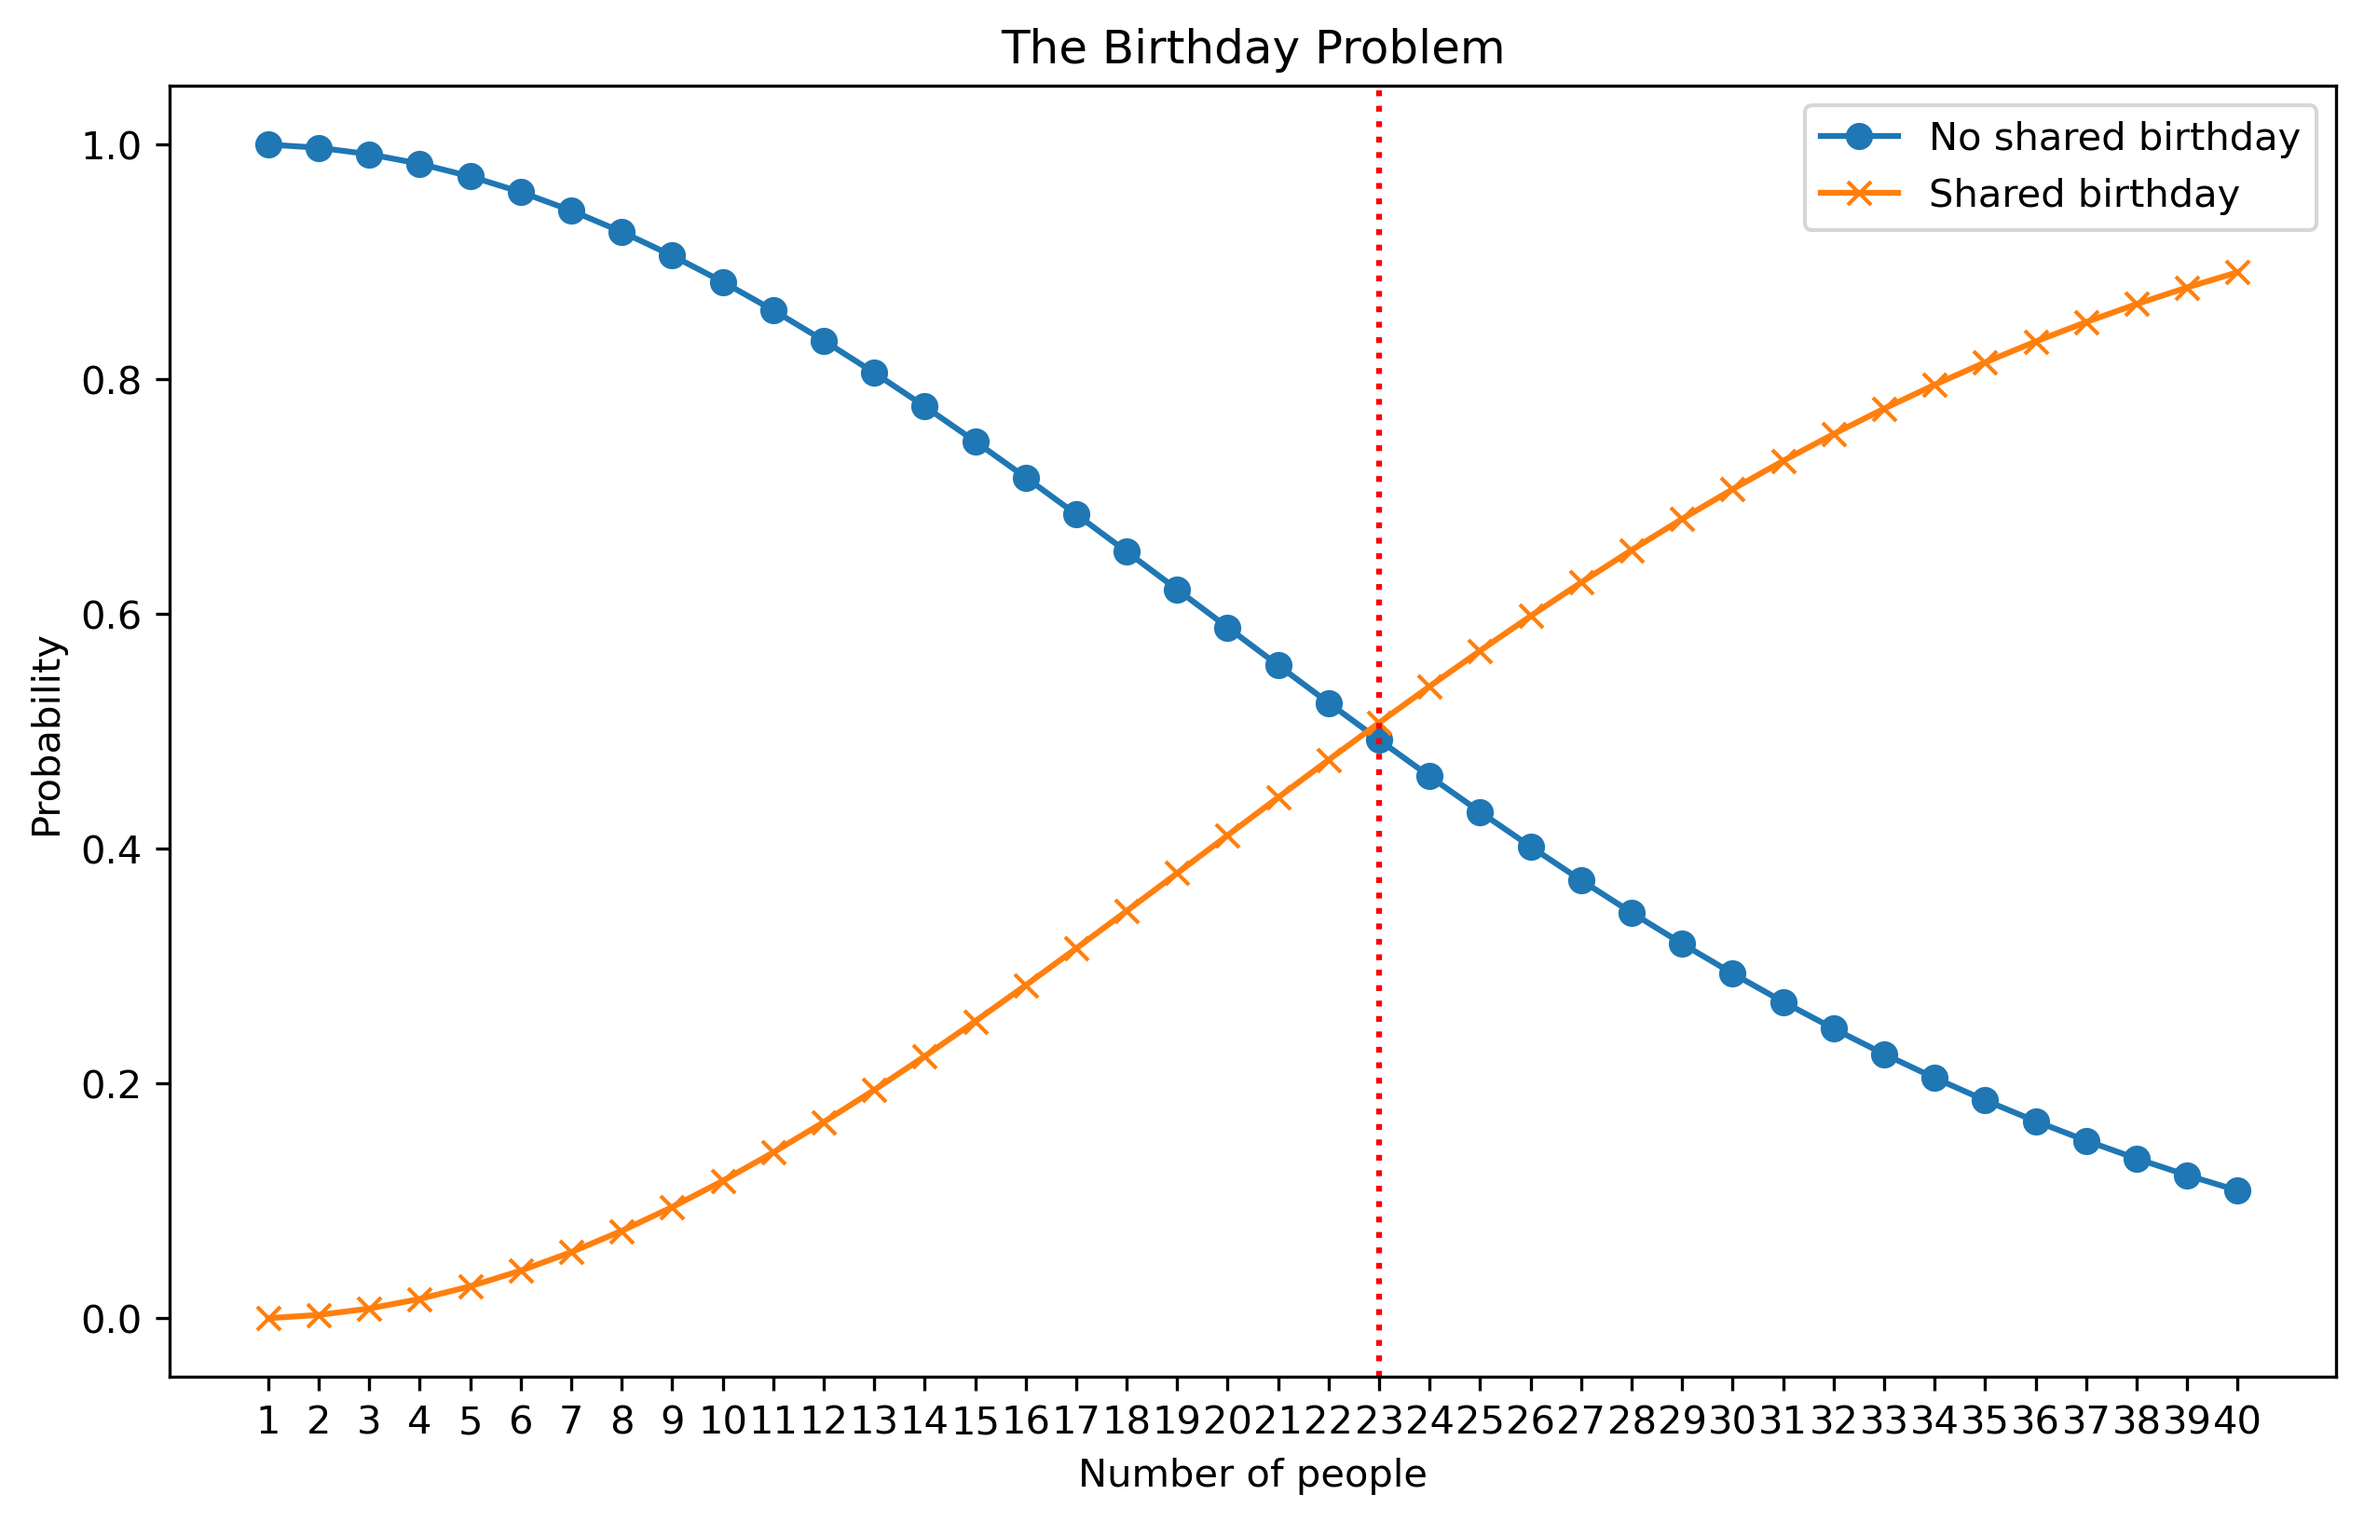
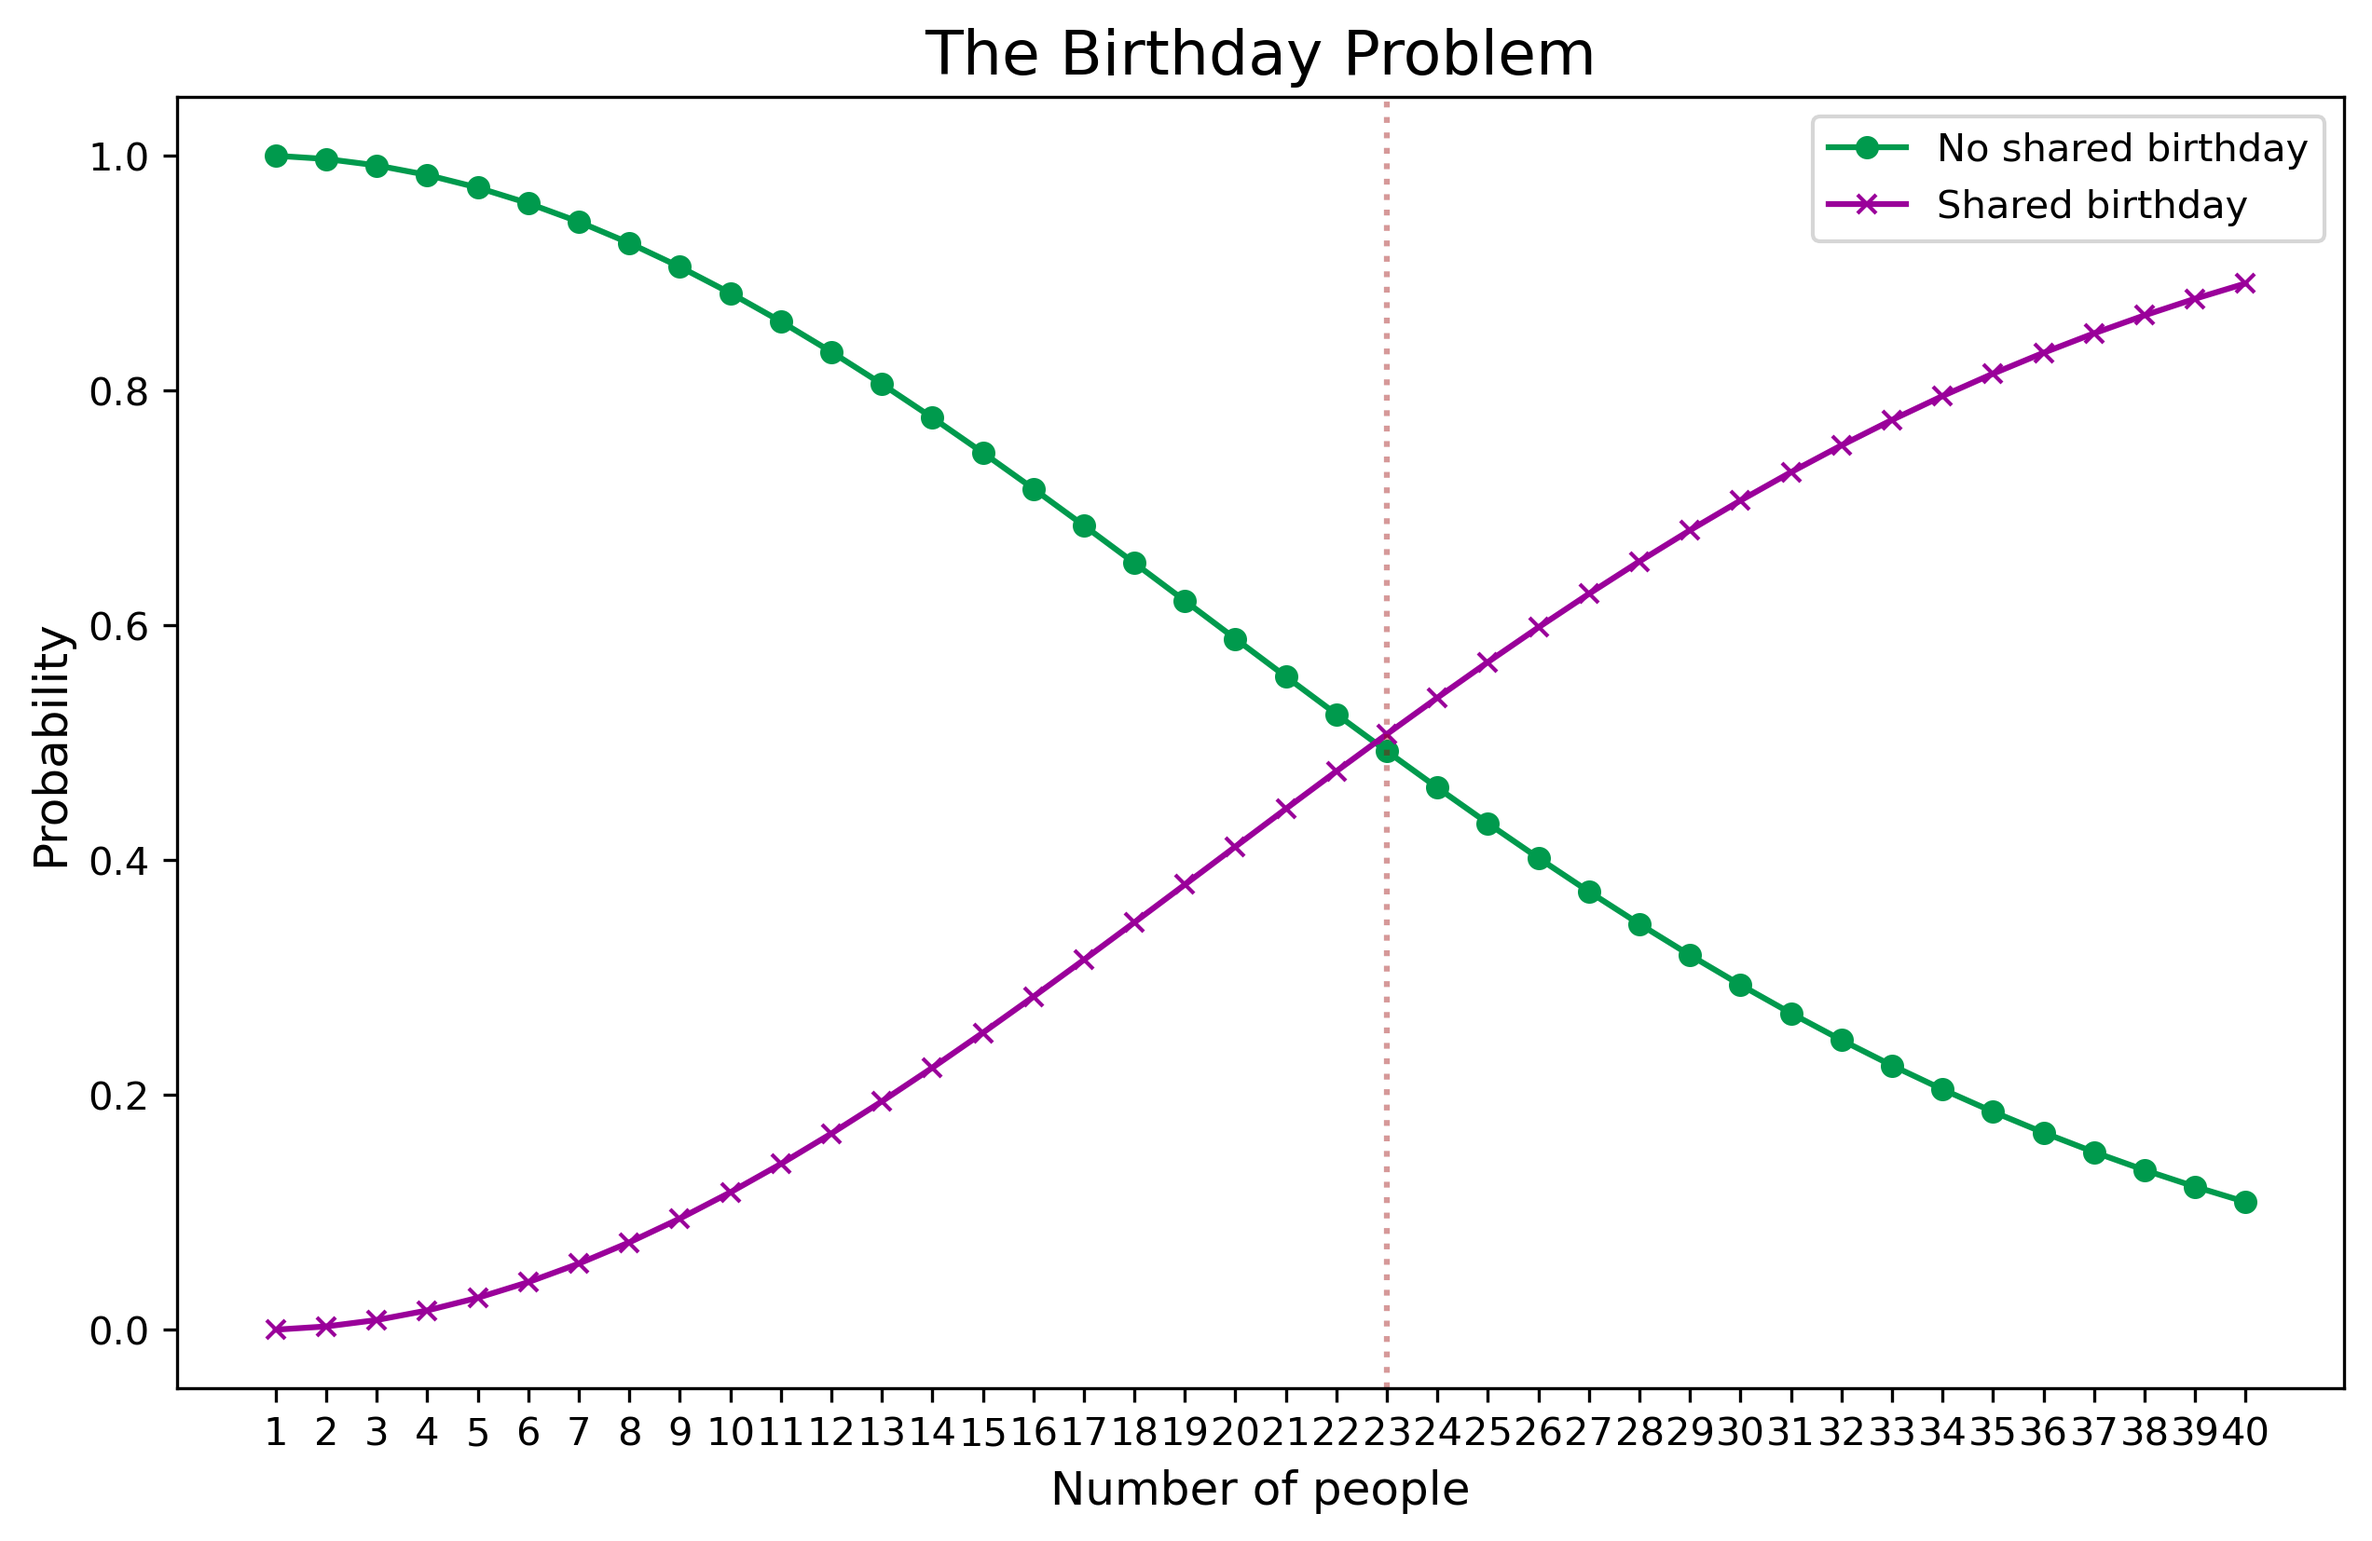
change colors

diff --git a/birthday_problem/birthday_problem.py b/birthday_problem/birthday_problem.py
@@ -21,19 +21,19 @@ for n in people:
 plt.figure(figsize=(10, 6))
 
 # Plotting both sets of data
-plt.plot(people, prob_no_share_all, label='No shared birthday', marker='o')
-plt.plot(people, prob_2_share_all, label='Shared birthday', marker='x')
+plt.plot(people, prob_no_share_all, label='No shared birthday', marker='o', color='#009a4d', markersize=5)
+plt.plot(people, prob_2_share_all, label='Shared birthday', marker='x', color='#9a009a', markersize=5)
 
 #x-axis range
 plt.xticks(ticks=range(1, len(people) + 1), labels=people)
 
 # Draw a vertical line at 'Person 23'
-plt.axvline(x=23, color='red', linestyle=':')
+plt.axvline(x=23, color='#9a0000', linestyle=':', alpha = 0.4)
 
 # Adding labels and title
-plt.xlabel('Number of people')
-plt.ylabel('Probability')
-plt.title('The Birthday Problem')
+plt.xlabel('Number of people', fontsize=12)
+plt.ylabel('Probability', fontsize=12)
+plt.title('The Birthday Problem', fontsize=16)
 
 # Move the legend to the upper right corner
 plt.legend(loc='upper right')
